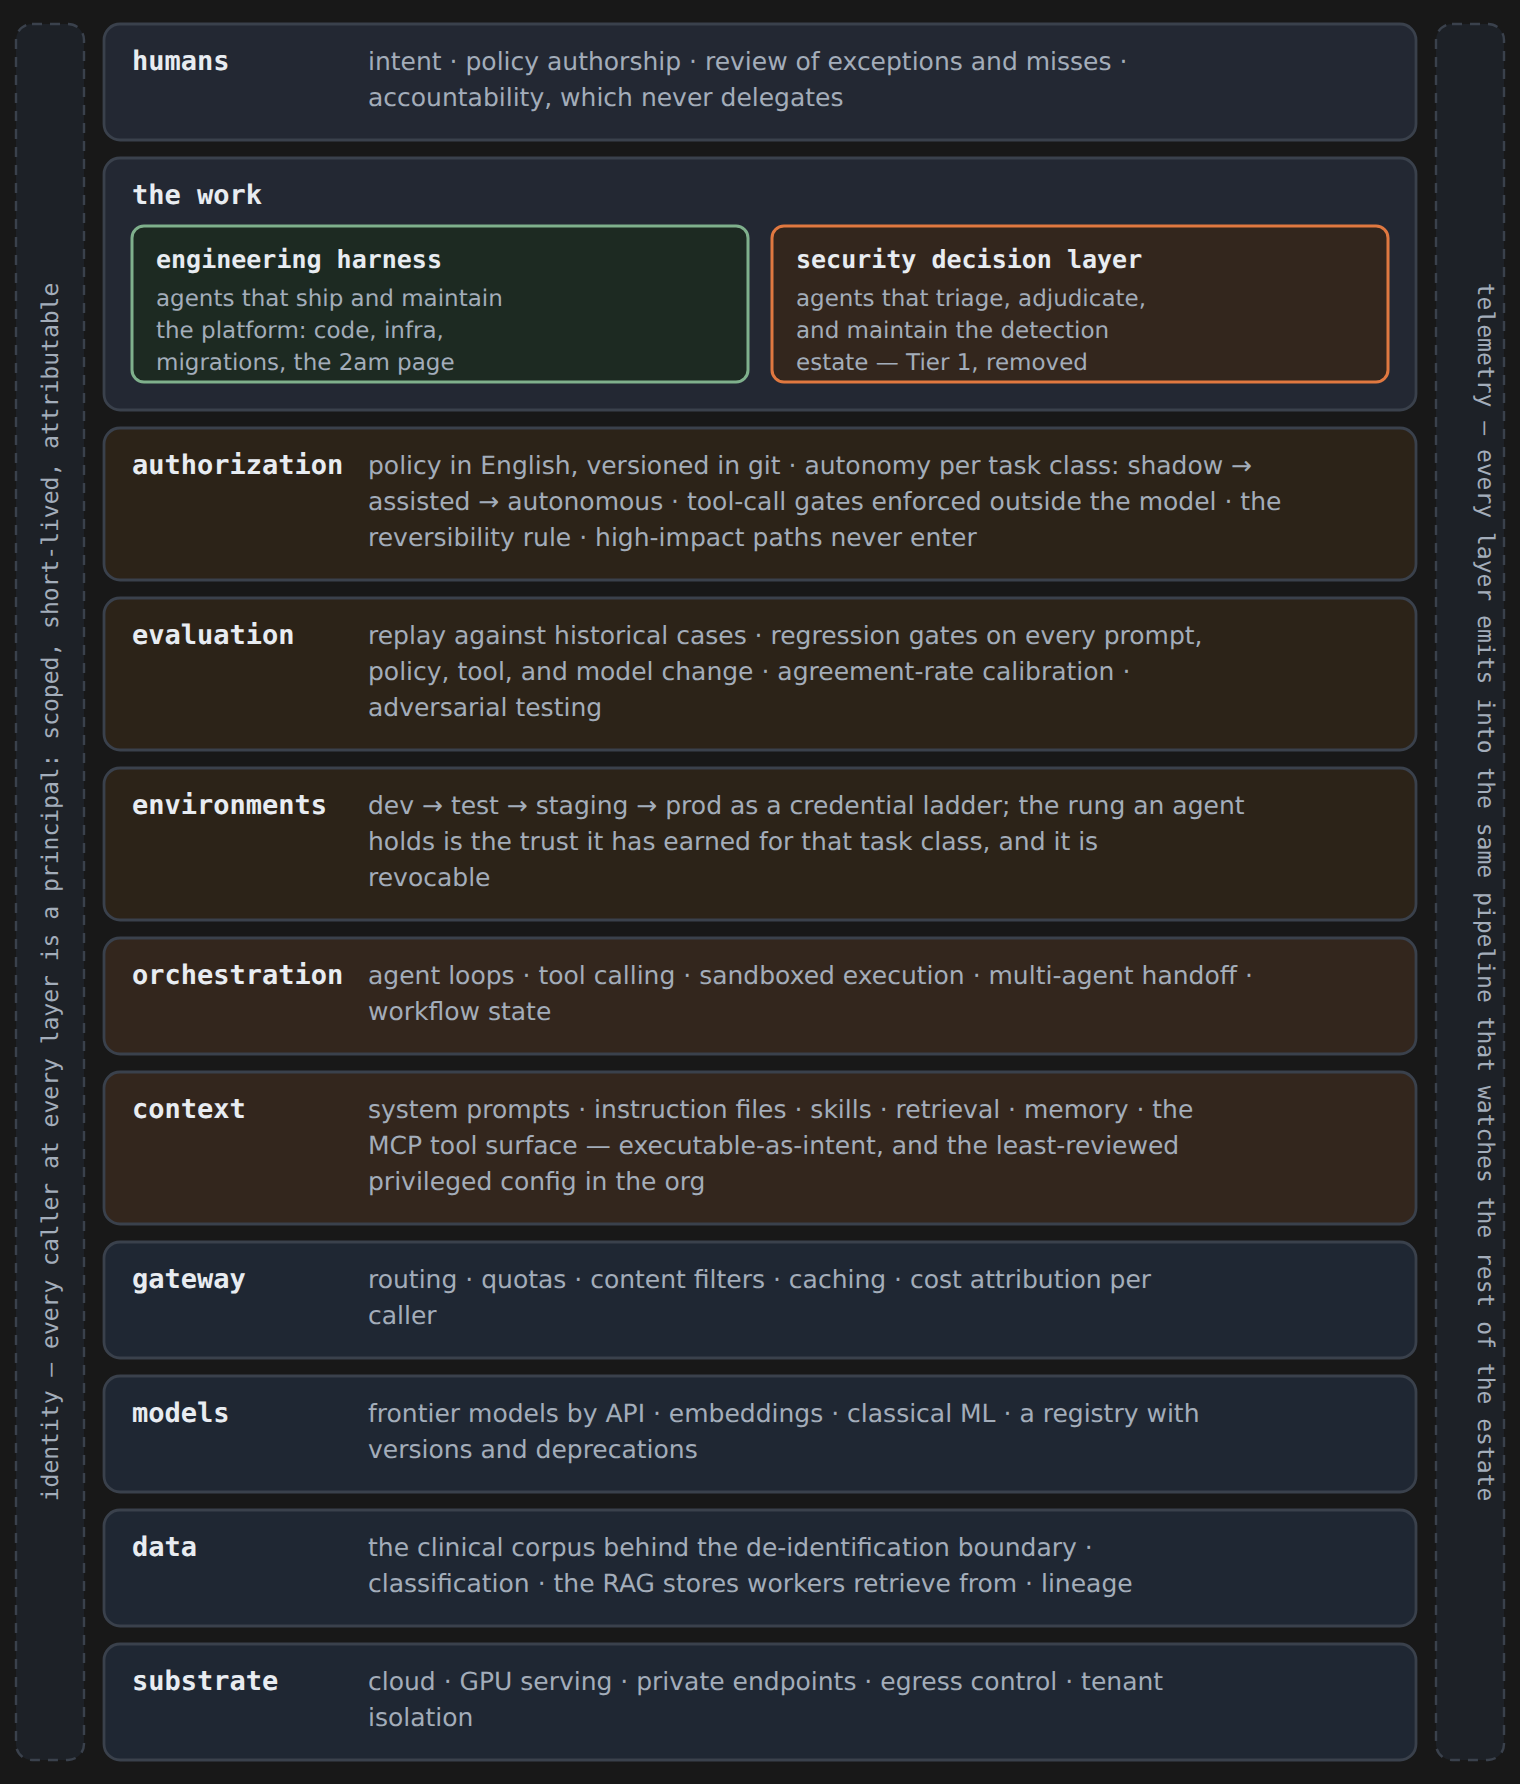
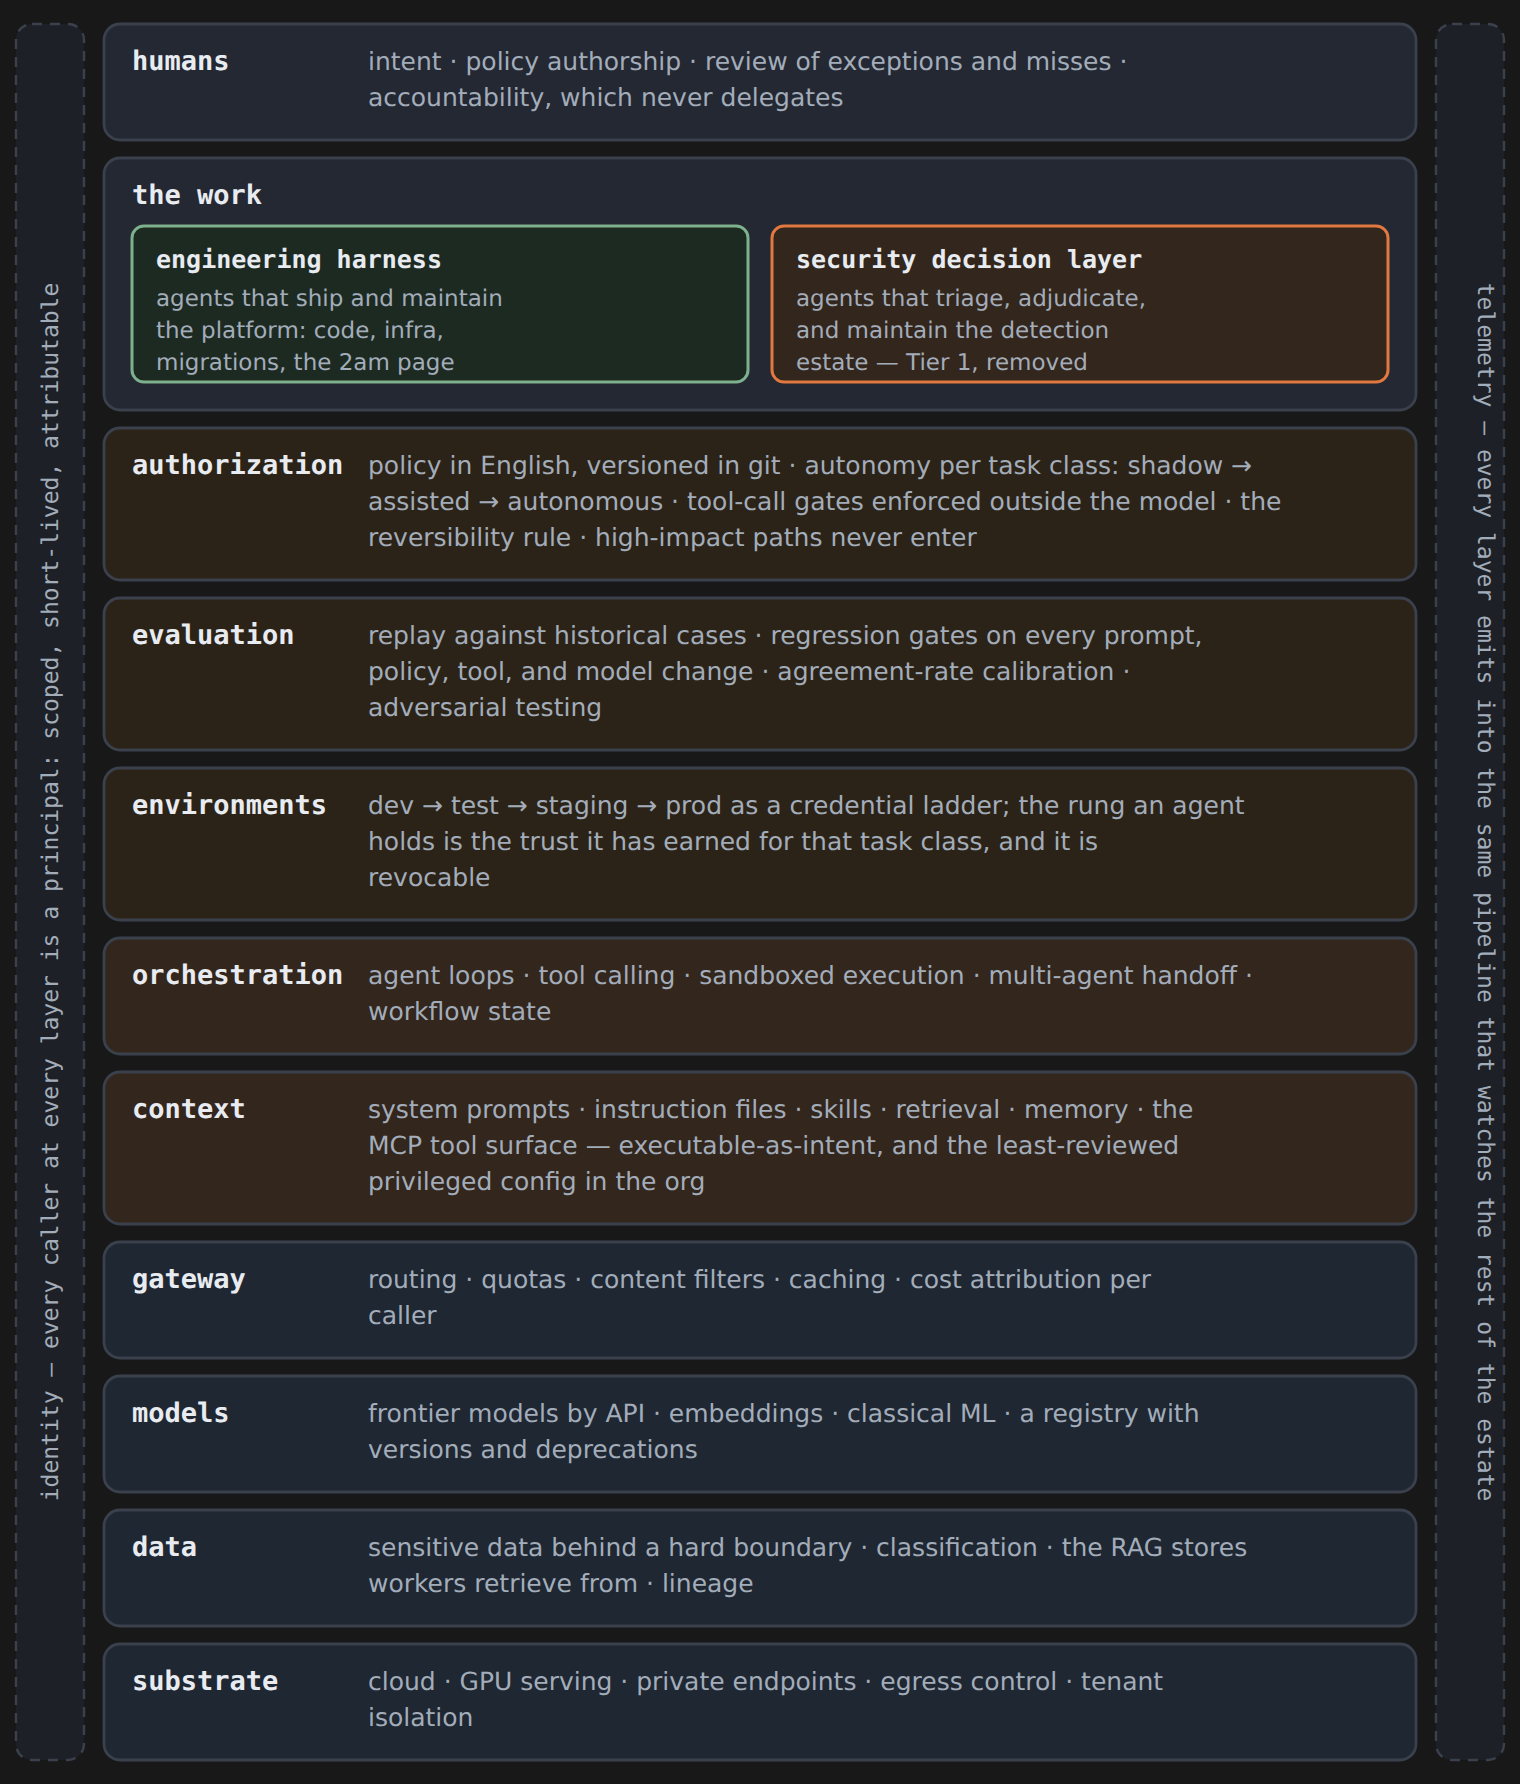
Generalize the post: no vertical, no company-specific detail
The environment is now described only as a cloud-native platform on
data that matters; the data row and the never-graduates task classes
speak of sensitive data and auditors generically, in prose and in the
rendered diagram alike.

Claude-Session: https://claude.ai/code/session_01GfyT8bUqkon8GdxxgDt9dG

Changed region(s): [[0.2474, 0.8632, 0.8039, 0.8941]]

diff --git a/_posts/2026-08-25-the-harness-not-the-model.md b/_posts/2026-08-25-the-harness-not-the-model.md
@@ -12,7 +12,7 @@ I'd deploy most of it tomorrow. That's what made it hard to articulate why it bo
 
 Here's the test I'd put to any diagram of this kind: the operational questions should land somewhere on it. Why can't the agent deploy this fix to production? Who authorized that tool call at 2am — and had the agent earned the right to make it without asking? What re-validates every automated decision when the model version underneath changes? Point to the box where those answers live. On the request diagram you can't, and it isn't carelessness: those answers live in layers a runtime flow has no place for, because a request is over in seconds and the answers play out over months.
 
-So I drew the whole thing, for the environment I actually work in: a cloud-native healthcare data platform. And I drew it for the operations side, deliberately — not the AI in the product, but the AI that does the work. What I want is a model of AI workers: engineers, product and security both, handing real work to agents that hold real access and do it securely, with every layer those workers stand on drawn in — the infrastructure, where the orchestrator takes hold, the prompts, the guardrails, the controls. Not just prompts pointed at a tenant: actual infrastructure. The model itself is one layer of thirteen, near the bottom, and nearly everything that determines whether any of this works sits above it. The irony of answering an architecture diagram with a bigger architecture diagram is not lost on me; the extra layers are the argument.
+So I drew the whole thing, for the kind of environment I work in: a cloud-native platform sitting on data that matters. And I drew it for the operations side, deliberately — not the AI in the product, but the AI that does the work. What I want is a model of AI workers: engineers, product and security both, handing real work to agents that hold real access and do it securely, with every layer those workers stand on drawn in — the infrastructure, where the orchestrator takes hold, the prompts, the guardrails, the controls. Not just prompts pointed at a tenant: actual infrastructure. The model itself is one layer of thirteen, near the bottom, and nearly everything that determines whether any of this works sits above it. The irony of answering an architecture diagram with a bigger architecture diagram is not lost on me; the extra layers are the argument.
 
 ## The full stack
 
@@ -28,7 +28,7 @@ Hold the two diagrams next to each other. The request flow covers a genuine chun
 
 I'll be brief about the bottom of the stack, because this is the territory the request diagram already covers well.
 
-Substrate is real engineering but it's the most commodity layer here, and the interesting property is the boundary work: private endpoints, egress control, tenancy. Data is where healthcare stops being a generic column in someone's market map: the de-identification boundary is a property of the data layer, and half the security architecture above it exists to keep that property true. Models, plural, is an inventory for the workers: frontier models rented by API, embedding models, and a long tail of classical ML that was "AI" before the rebrand. The register that matters isn't which models; it's that they carry versions and deprecation dates, which means everything above them inherits change it didn't ask for.
+Substrate is real engineering but it's the most commodity layer here, and the interesting property is the boundary work: private endpoints, egress control, tenancy. Data is where the stakes live: the sensitive-data boundary is a property of the data layer, and half the security architecture above it exists to keep that property true. Models, plural, is an inventory for the workers: frontier models rented by API, embedding models, and a long tail of classical ML that was "AI" before the rebrand. The register that matters isn't which models; it's that they carry versions and deprecation dates, which means everything above them inherits change it didn't ask for.
 
 The gateway is a layer the request diagram gets exactly right — an AI gateway with model access control sits dead center of it — and it's the one that makes the model layer governable at all: one place where every model call gets routed, throttled, content-filtered, cached, and, the part I care about, attributed. A model call is an invoice with a caller on it. Readers of [the log-source post](/2026/07/11/every-log-source-is-an-invoice.html) can guess how I feel about AI spend that can't name which workload incurred it.
 
@@ -68,7 +68,7 @@ The harness concentrates exactly the surface I spent July worrying about. Instru
 
 The identity rail is a population explosion. Every agent per task class per environment rung is a principal with a lifecycle, which means hundreds of scoped non-human identities that need issuance, rotation, attestation, and retirement. At this volume that's an operations program of its own, run against identity practices that mostly still assume a principal is a person with a badge photo.
 
-Evaluation is a standing commitment that rots quietly. The replay corpora, the regression gates, the agreement-rate baselines: all of it decays the way reference lists decay, and an autonomy gradient calibrated against last quarter's model version is a lie with a dashboard. Healthcare adds its own drag: some task classes will never graduate, because the reversibility rule fails permanently anywhere patient data could move, and the decision records here do double duty as engineering hygiene and as the thing you hand a regulator.
+Evaluation is a standing commitment that rots quietly. The replay corpora, the regression gates, the agreement-rate baselines: all of it decays the way reference lists decay, and an autonomy gradient calibrated against last quarter's model version is a lie with a dashboard. Sensitive data adds its own drag: some task classes will never graduate, because the reversibility rule fails permanently anywhere that data could move, and the decision records do double duty as engineering hygiene and as the thing you hand an auditor.
 
 And someone has to own the harness. Not engineering, not the SOC, the shared rows underneath both tenants, and today that owner doesn't cleanly exist on most org charts, including in places that have already built half of this. Unowned shared infrastructure doesn't stay unowned; it gets owned by whoever's outage it causes.
 
